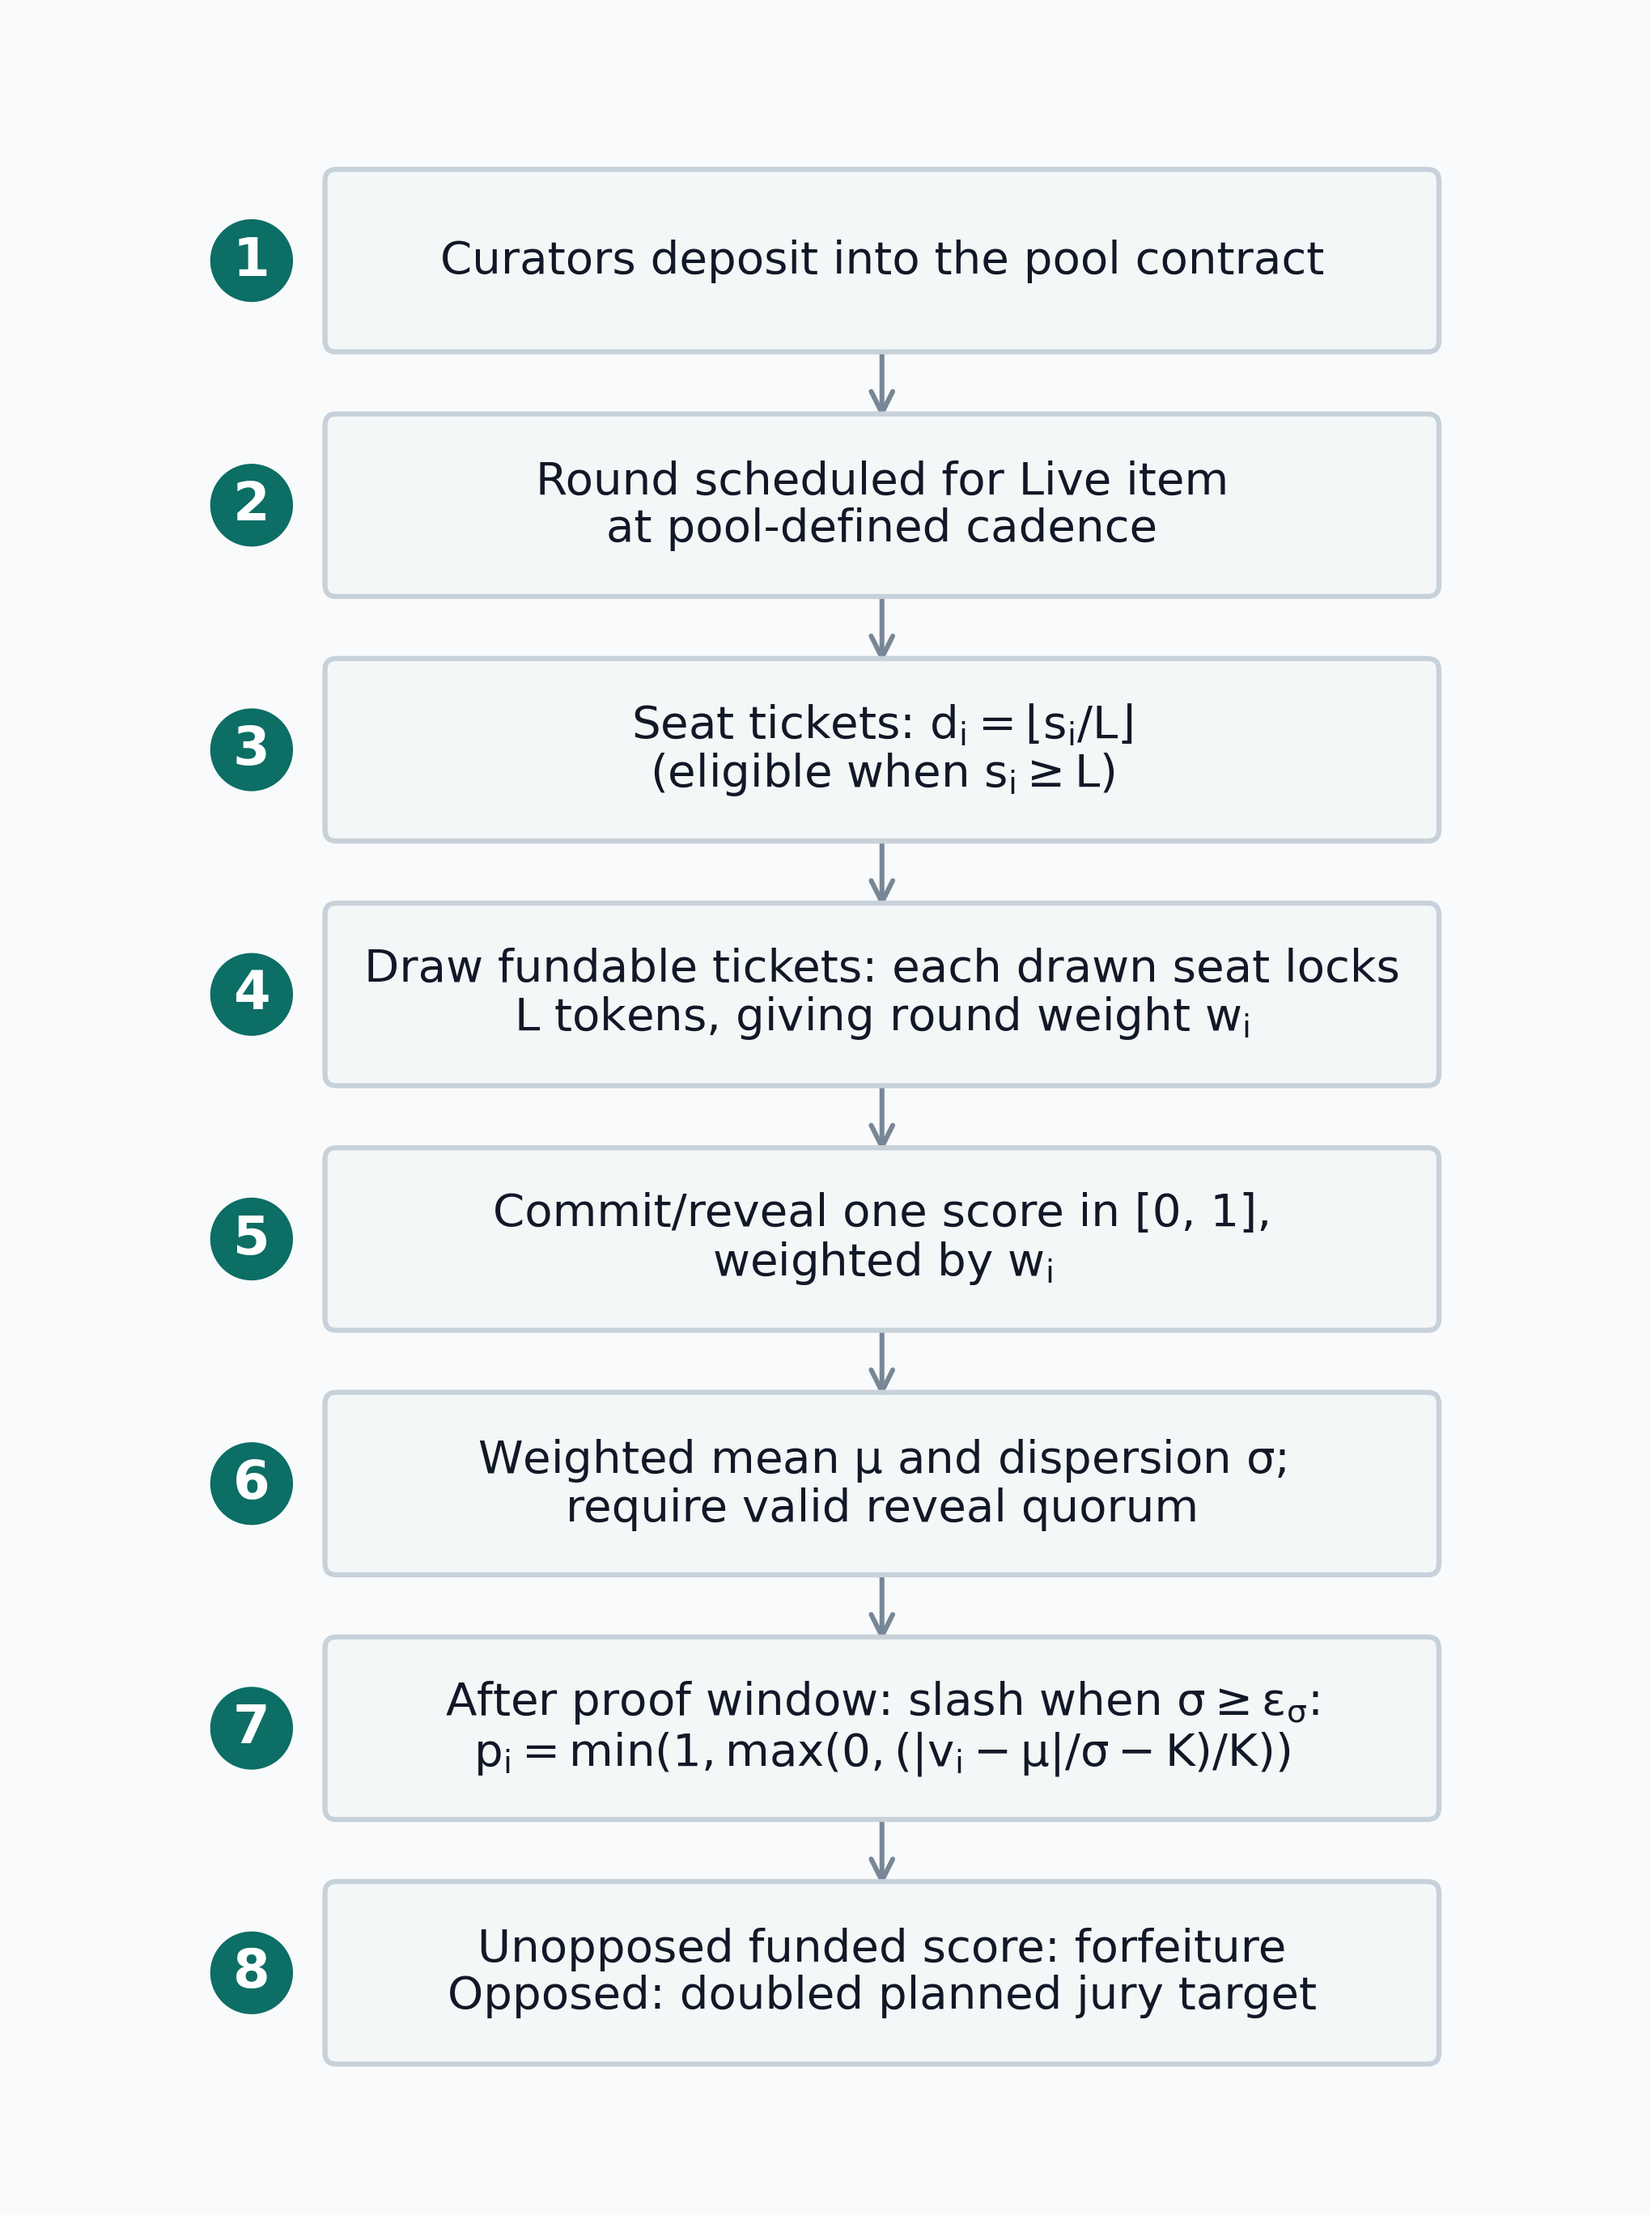
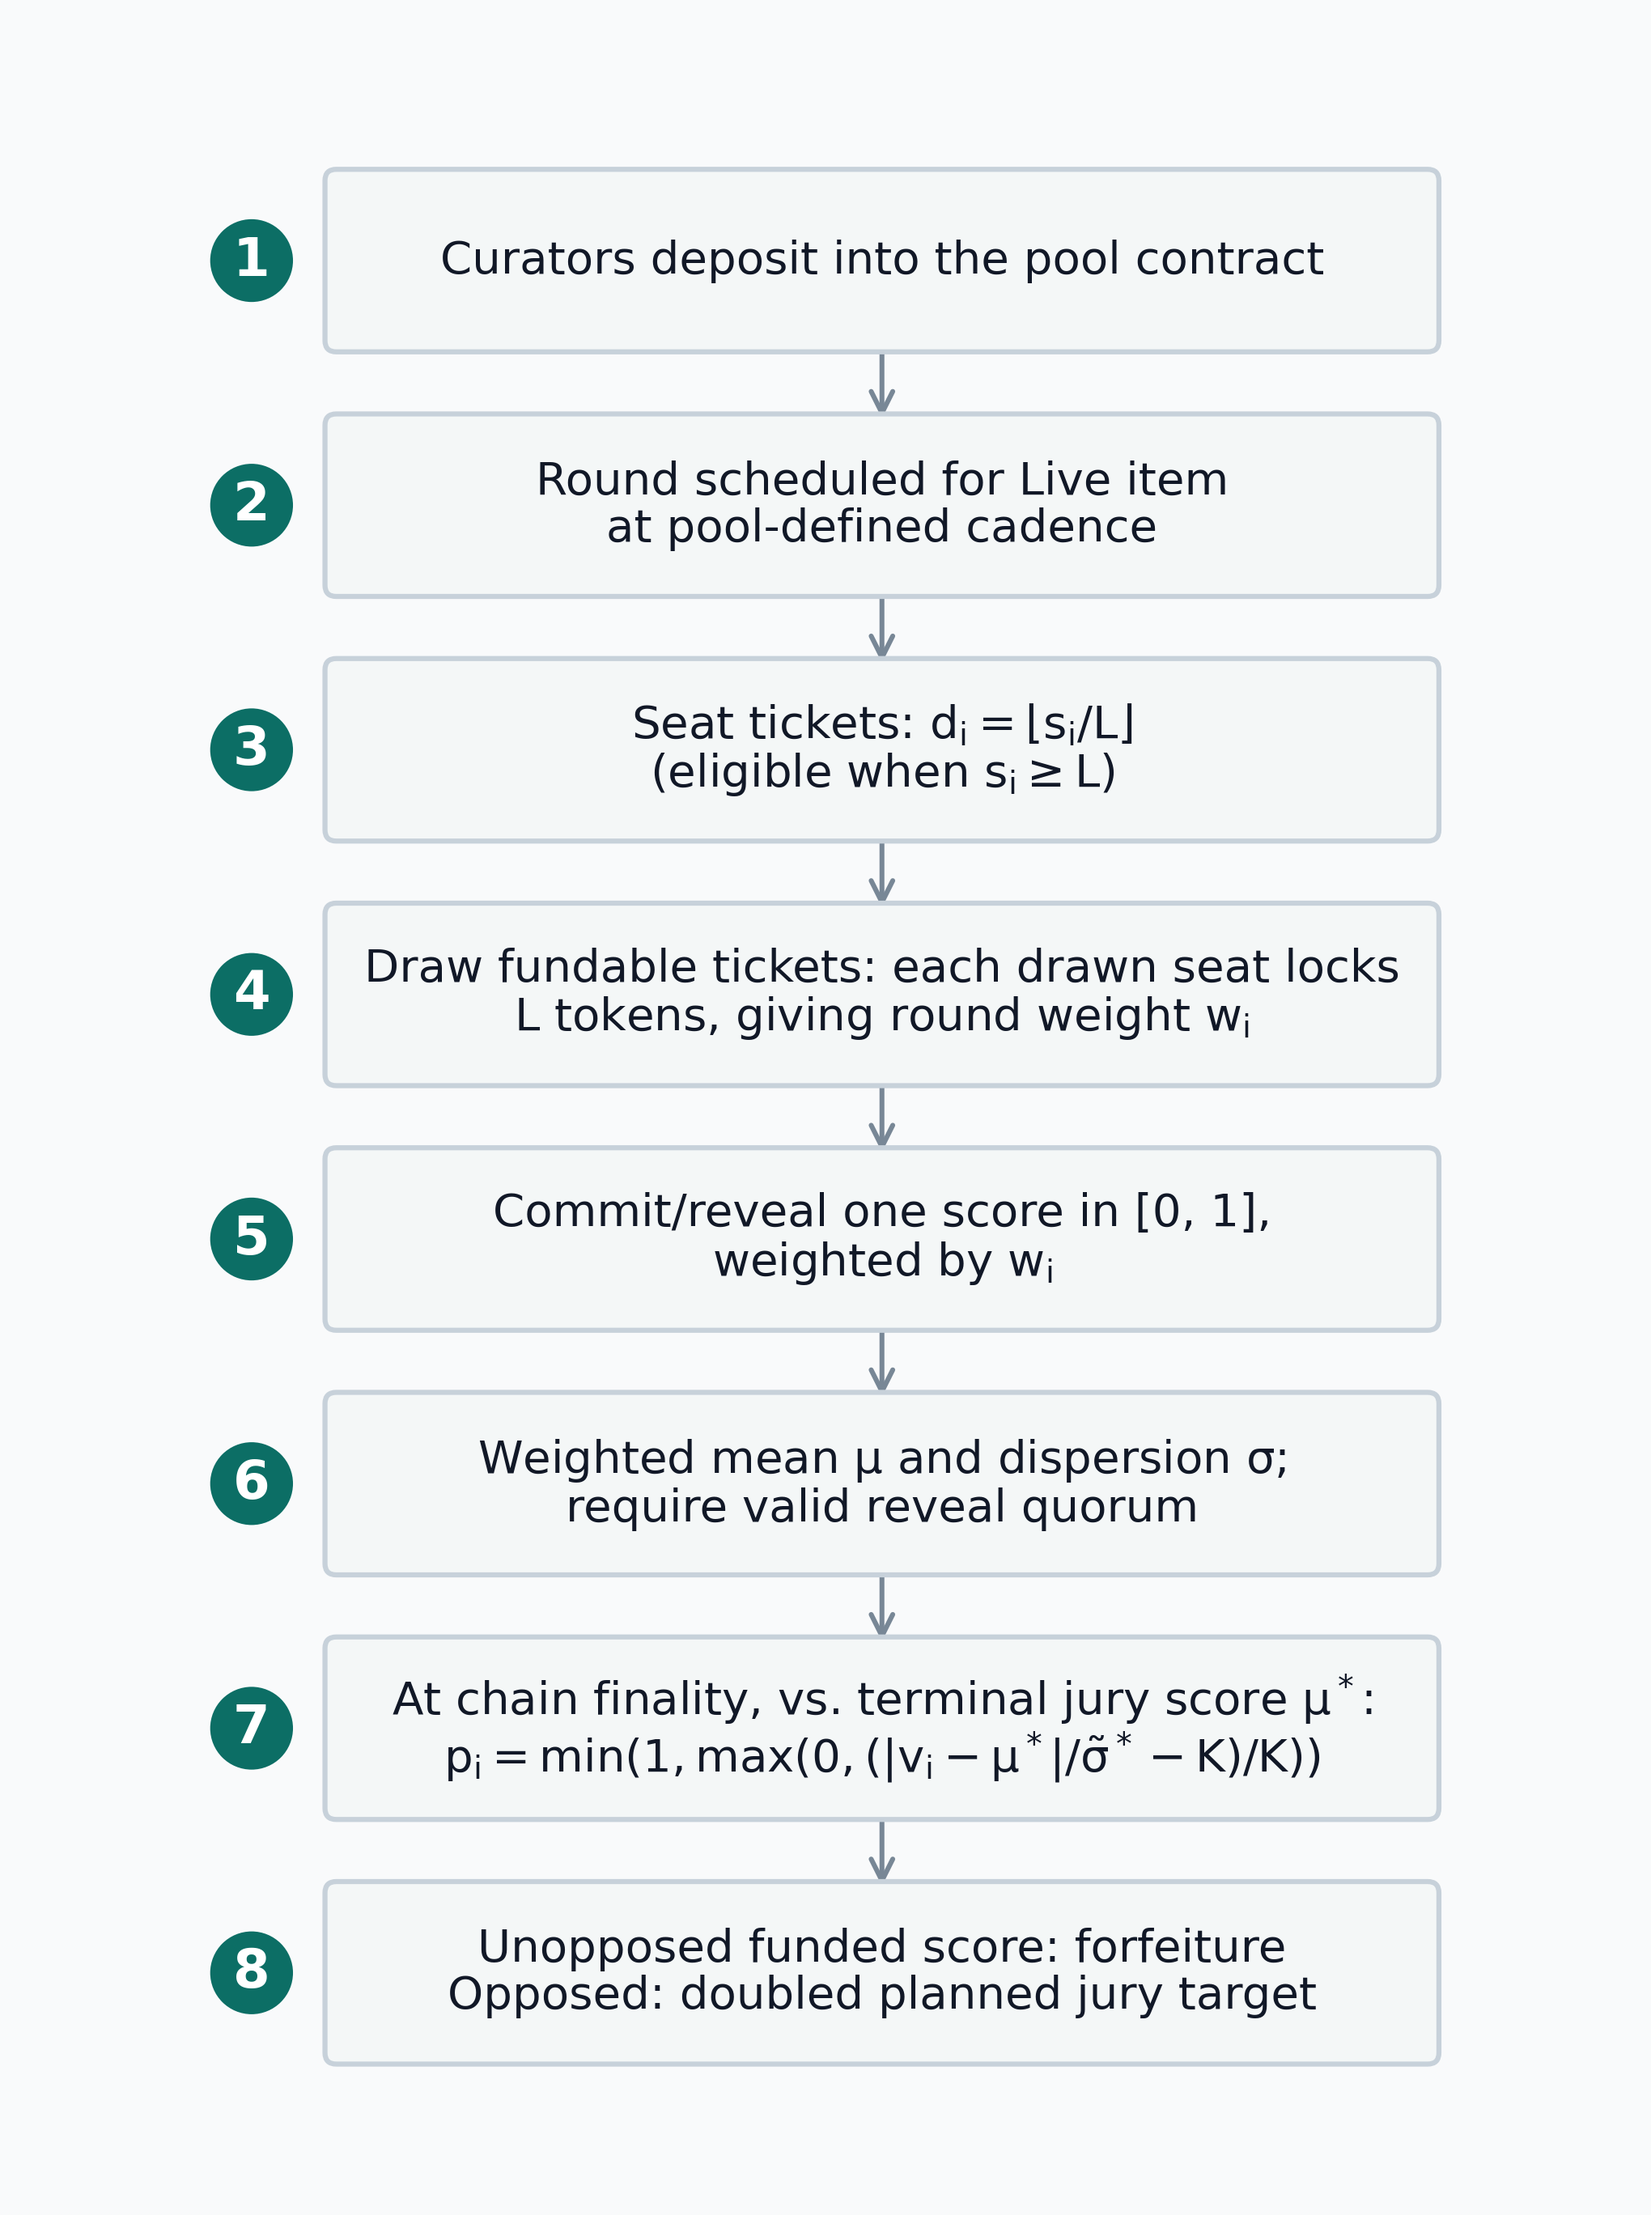
docs(diagrams): show chain-final coherence penalty in relevance round figure
Step 7 of the relevance-round figure still showed the per-round band and the sigma >= epsilon_sigma skip. It now shows settlement at chain finality against the terminal jury score mu* with the floored scale, matching paper step 7. Only the two relevance-round images changed on regeneration.

Changed region(s): [[0.2471, 0.7453, 0.8029, 0.8075]]

diff --git a/diagrams/generate_diagrams.py b/diagrams/generate_diagrams.py
@@ -385,9 +385,9 @@ def fig4_relevance_round(out):
         ('6', r'Weighted mean $\mu$ and dispersion $\sigma$;'
               '\n'
               r'require valid reveal quorum'),
-        ('7', r'After proof window: slash when $\sigma \geq \varepsilon_\sigma$:'
+        ('7', r'At chain finality, vs. terminal jury score $\mu^*$:'
               '\n'
-              r'$p_i = \min(1, \max(0, (|v_i - \mu| / \sigma - K) / K))$'),
+              r'$p_i = \min(1, \max(0, (|v_i - \mu^*| / \tilde\sigma^* - K) / K))$'),
         ('8', 'Unopposed funded score: forfeiture\nOpposed: doubled planned jury target'),
     ]
 
